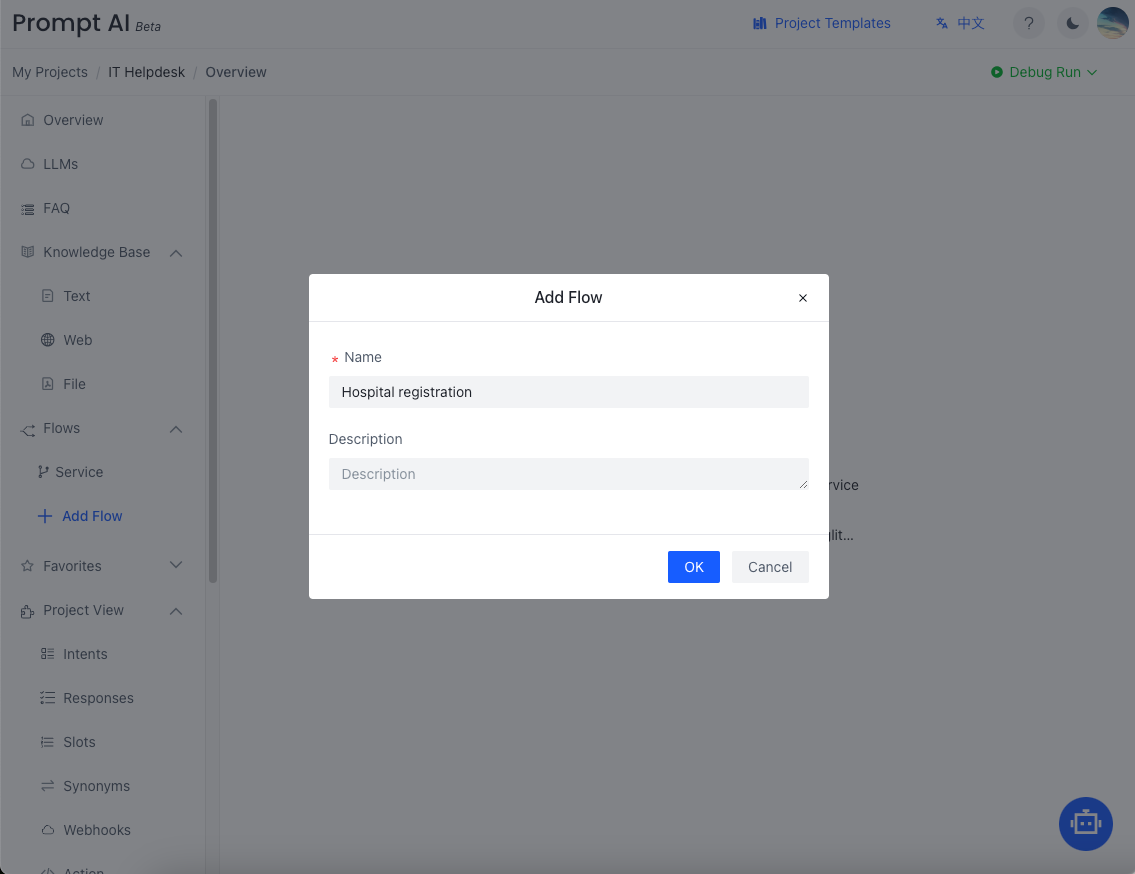
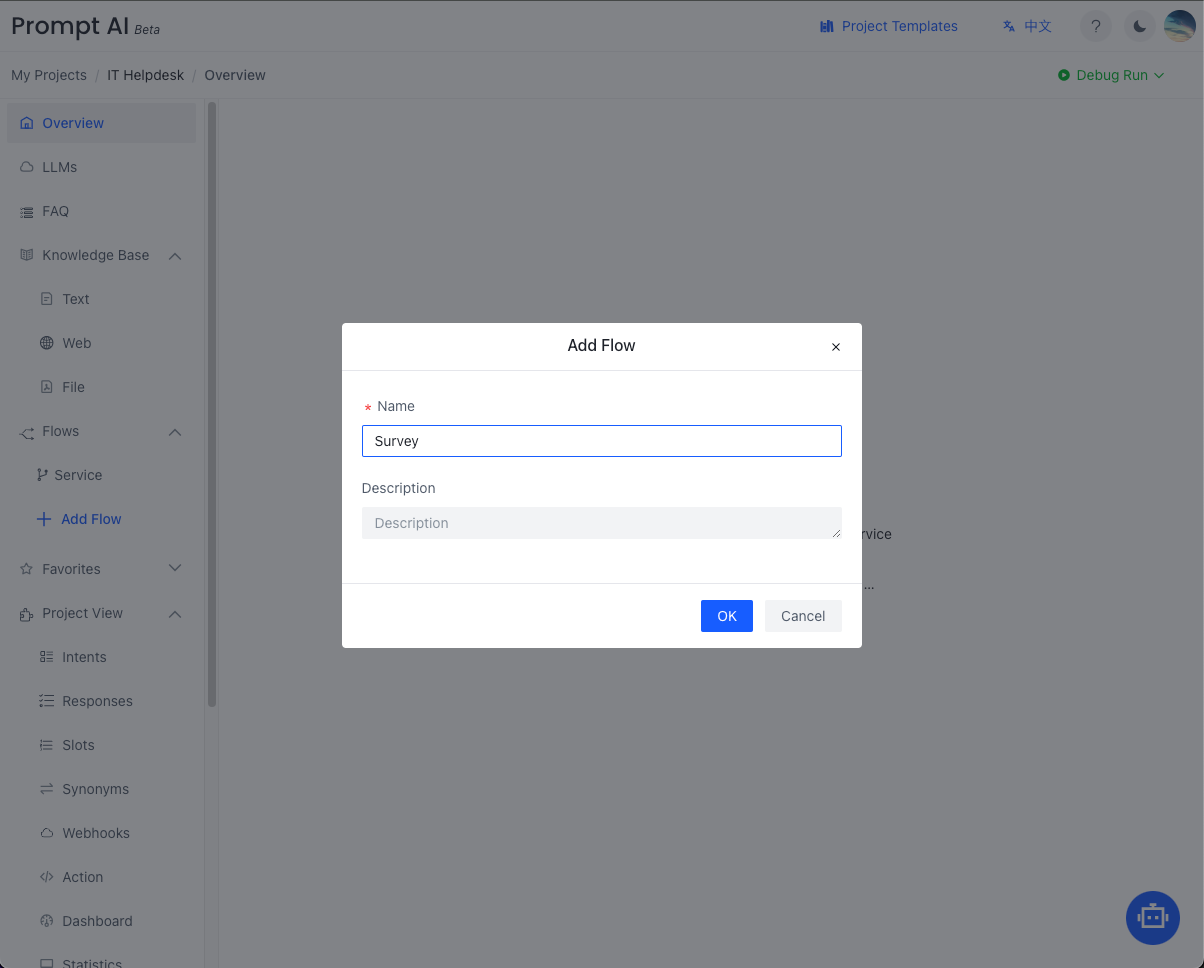
1、update gpt flow images

diff --git a/docs/tutorial/gpt_flow.md b/docs/tutorial/gpt_flow.md
@@ -79,4 +79,5 @@ Fill in the pop-up dialog box.
 ![gpt-flow-03.png](/assets/images/tutorial/gpt_flow/gpt-flow-03.png)
 
 ## Run the GPT flow
- 
+
+![gpt-flow-04.png](/assets/images/tutorial/gpt_flow/gpt-flow-04.png)
